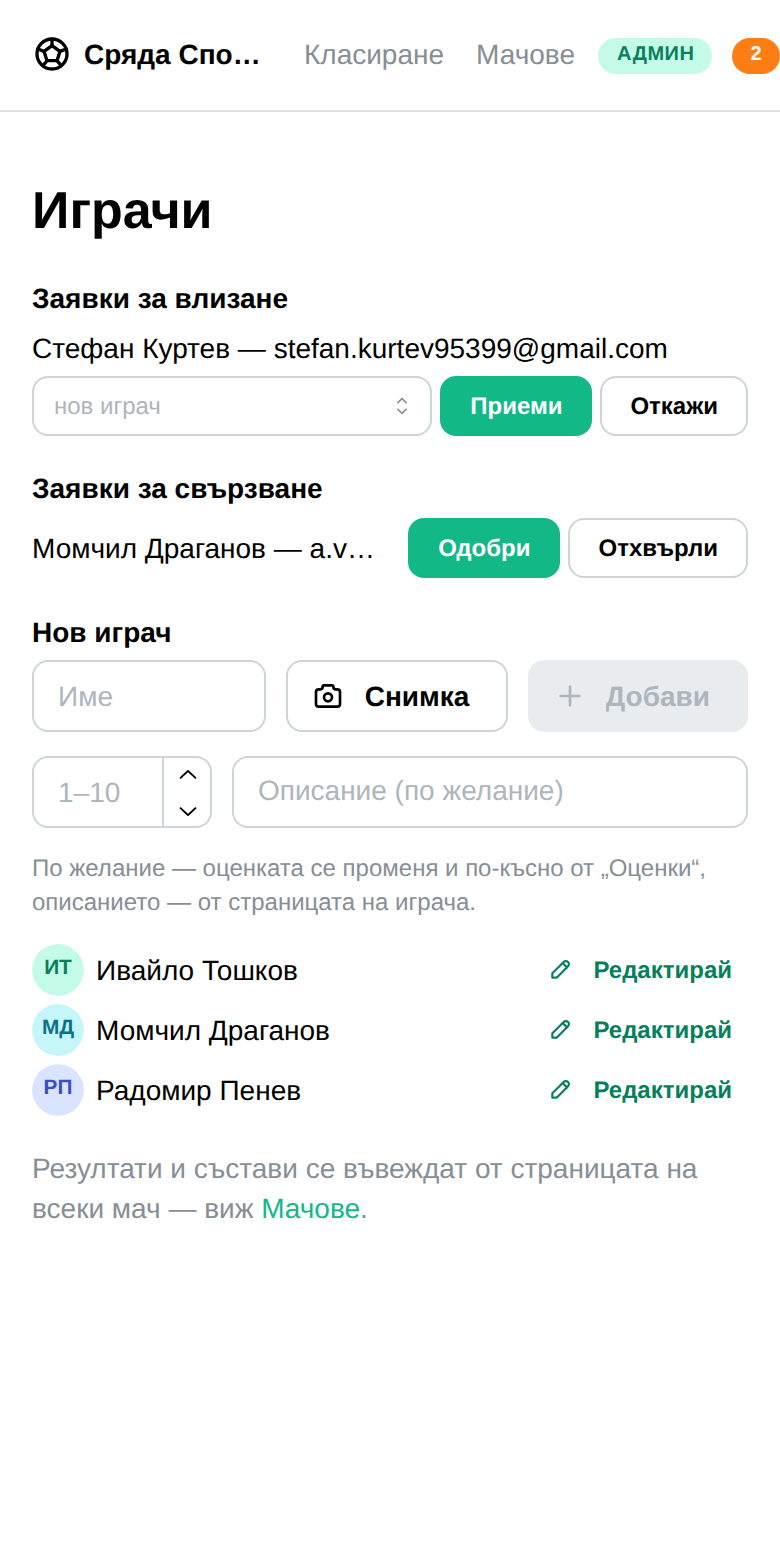
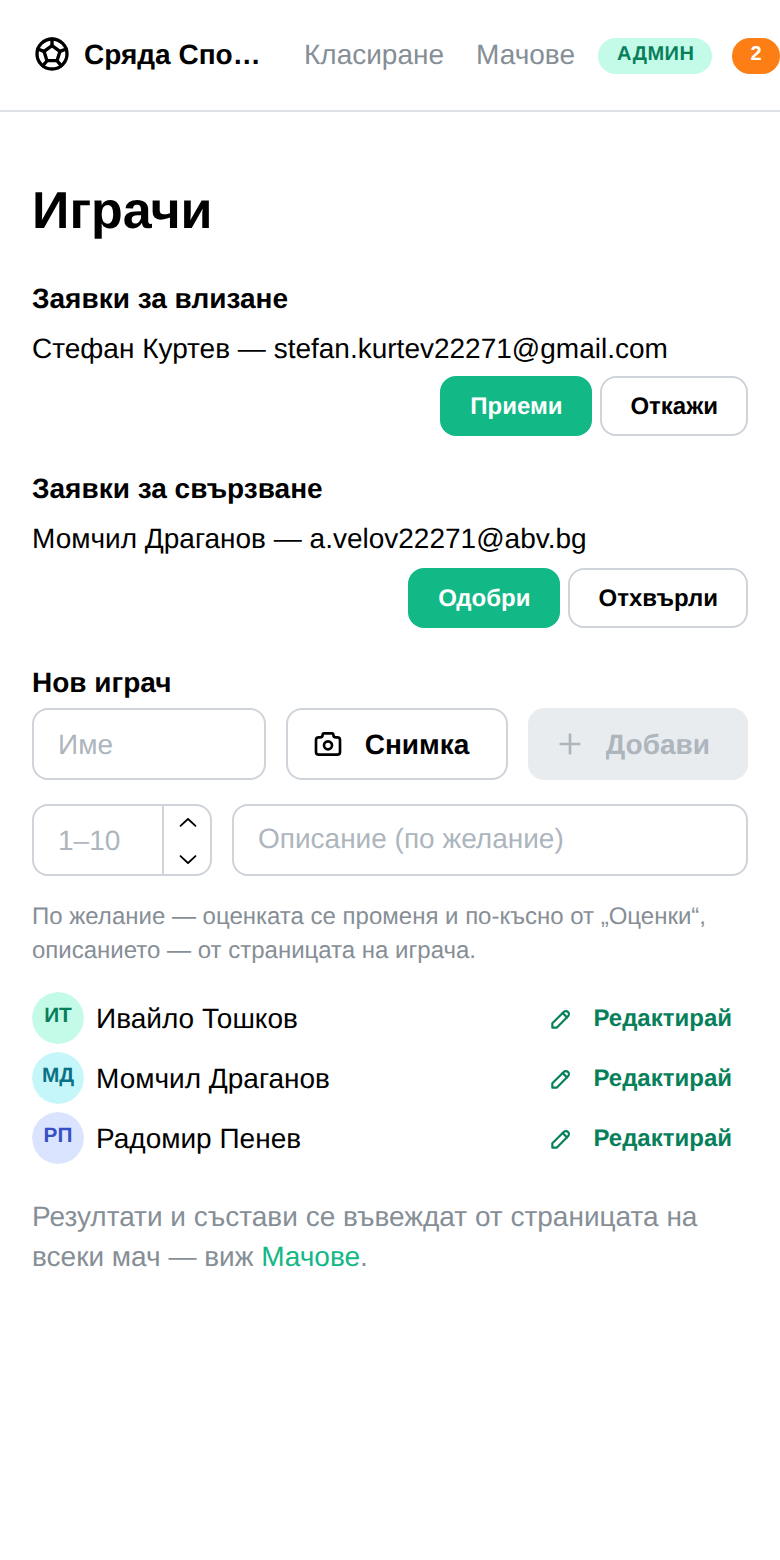
Голче: join flow re-shot after the approve row lost its picker
Nothing to fill in when approving, both queues laid out the same, and
'врата' replaced with 'вход' throughout.

diff --git a/docs/join-requests/index.html b/docs/join-requests/index.html
@@ -81,10 +81,10 @@
 </figure>
 
 <figure>
-  <h3>2. Две врати, една карта</h3>
+  <h3>2. Два входа, една карта</h3>
   <p>Отваряш групата и тя те пита направо. <b>Ако си в състава</b> — посочваш кой си. <b>Ако те няма</b> — искаш да влезеш. Картата я няма за човек, който вече играе там, нито за админа, нито за неразпознат посетител.</p>
   <div class="callout">
-    <p>Първата врата съществуваше отпреди, но се стигаше до нея само вътре в страницата на конкретен мач, докато гласуваш. Човек, който гледа самата лига, нямаше как да я намери — затова питаше да влезе като нов и админът налучкваше кой е.</p>
+    <p>Първият вход съществуваше отпреди, но се стигаше до него само вътре в страницата на конкретен мач, докато гласуваш. Човек, който гледа самата лига, нямаше как да го намери — затова питаше да влезе като нов и админът налучкваше кой е.</p>
   </div>
   <div class="shot"><img src="02-two-doors.png" alt="Картата с падащо меню за състава и бутон „Искам да вляза“"></div>
 </figure>
@@ -102,7 +102,7 @@
 </figure>
 
 <figure>
-  <h3>5. Другата врата — за нов човек</h3>
+  <h3>5. Другият вход — за нов човек</h3>
   <p>Който го няма в състава, просто иска да влезе. Заявката не дава нищо — нито глас, нито място в класирането.</p>
   <div class="shot"><img src="05-join-pending.png" alt="„Заявката ти чака одобрение от админ“"></div>
 </figure>
@@ -116,8 +116,8 @@
 <figure>
   <h3>7. Отсъжда — на едно място</h3>
   <p>„Заявки за влизане“ и „Заявки за свързване“ една под друга, на страницата „Играчи“. Всеки ред казва кой е поискал и от кой адрес.</p>
-  <div class="callout warn">
-    <p><b>Падащото меню е там за най-честия случай.</b> Половината хора, които искат да влязат, са в състава от месеци под име, което админът е написал. Ако одобриш „нов играч“, лигата остава със същия човек два пъти. Затова питаме — а когато човекът сам е посочил кой е, изобщо не се налага да избираш.</p>
+  <div class="callout">
+    <p><b>Няма какво да попълваш.</b> Приемаш или отказваш. Който е посочил себе си, влиза върху своето име — то вече стои на реда. За новия групата прави нов играч, кръстен на профила му; преименуваш го от редактора, ако трябва.</p>
   </div>
   <div class="shot"><img src="07-queue.png" alt="Двете опашки със заявки и бутоните за отсъждане"></div>
 </figure>
@@ -140,6 +140,7 @@
   <li><b>Списъкът с лиги е ново публично разкритие</b> — вече всеки може да изброи имената на всички групи. Ти го избра нарочно; отбелязвам го, защото е същият клас решение като списъка с акаунти, който махнахме.</li>
   <li><b>Две опашки, два почти еднакви компонента.</b> Различават се по това, че заявката за влизане има падащо меню, а „това съм аз“ никога няма да има — вече си казва кой е. Ако се сближат пак, се слива.</li>
   <li><b>Падащото меню в картата показва целия състав</b>, включително хора, които вече гласуват от профил. Сървърът отказва такъв избор, но човекът научава, че въпросният играч има профил. Същото беше вярно и досега на страницата на мача, така че не е ново — но си е разкритие.</li>
+  <li><b>Ако някой сбърка входа</b> — вече е в състава, но натисне „Искам да вляза“ — одобрението прави втори негов ред. Оправя се: триеш излишния играч и свързваш профила от редактора. Картата слага посочването първо точно за да е рядко.</li>
   <li><b>Значката пази състояние извън React.</b> Хедърът и опашката не са в роднинска връзка; малък абонамент е по-евтин от контекст през целия рутер. Но е глобално състояние и се брои за такова.</li>
 </ul>
 
